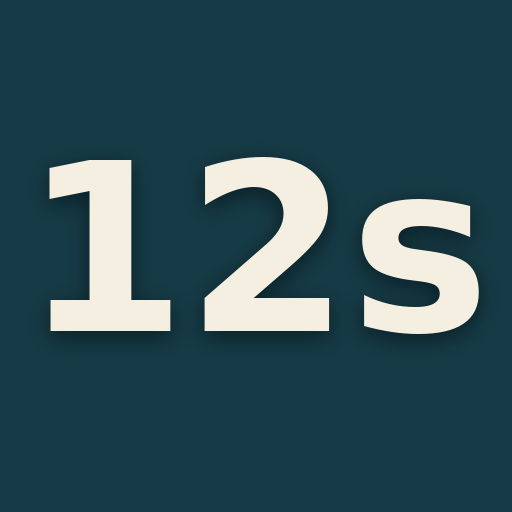
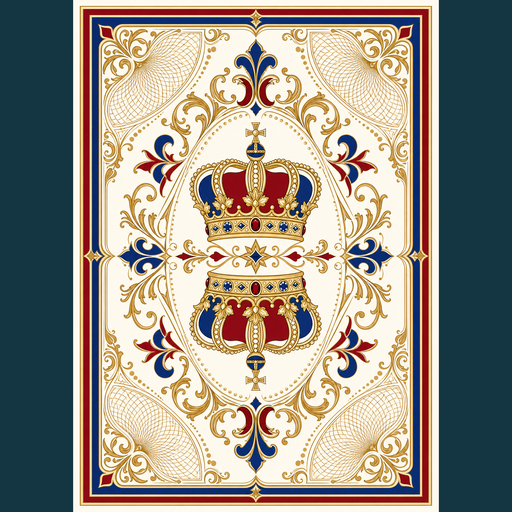
V3

diff --git a/game.html b/game.html
@@ -50,6 +50,31 @@
   .err { color: var(--danger); font-size: 13px; min-height: 18px; margin-top: 2px; }
   .or { text-align: center; color: var(--ink-soft); font-size: 12px; margin: 6px 0 14px; letter-spacing: .12em; }
 
+  .rules-toggle { display: flex; gap: 6px; margin-bottom: 12px; }
+  .rules-tab {
+    flex: 1; font-family: var(--font-body); font-weight: 600; font-size: 13px; color: var(--ink-soft);
+    background: rgba(255,255,255,.05); border: 1px solid rgba(255,255,255,.14);
+    padding: 9px 10px; border-radius: 10px; cursor: pointer; transition: background .12s ease, color .12s ease;
+  }
+  .rules-tab.active { background: var(--glow); color: #06231a; border-color: transparent; }
+  #house-rules-panel { margin-bottom: 4px; }
+  .stepper-row { display: flex; align-items: center; justify-content: space-between; margin-bottom: 10px; }
+  .stepper-label { font-size: 13px; color: var(--paper); }
+  .stepper { display: flex; align-items: center; gap: 10px; }
+  .stepper-btn {
+    width: 30px; height: 30px; padding: 0; font-size: 16px; font-weight: 700; line-height: 1;
+    border-radius: 8px; display: flex; align-items: center; justify-content: center;
+  }
+  .stepper-val { font-family: var(--font-display); font-weight: 700; font-size: 15px; min-width: 26px; text-align: center; }
+  .player-pick { display: flex; gap: 6px; }
+  .player-opt {
+    width: 34px; height: 30px; padding: 0; font-family: var(--font-display); font-weight: 700; font-size: 14px;
+    color: var(--ink-soft); border-radius: 8px;
+  }
+  .player-opt.active { background: var(--glow); color: #06231a; border-color: transparent; }
+  .deck-summary { color: var(--ink-soft); font-size: 12px; text-align: center; margin: 8px 0 4px; letter-spacing: .03em; }
+  .rules-note { color: var(--wild-a); font-size: 12px; text-align: center; margin: 4px 0 10px; line-height: 1.4; }
+
   button {
     font-family: var(--font-body); font-weight: 600; font-size: 14px; color: var(--paper);
     background: rgba(255,255,255,.08); border: 1px solid rgba(255,255,255,.16);
@@ -251,6 +276,41 @@
     <h2>New game</h2>
     <label class="f" for="create-name">Your name</label>
     <input class="f" id="create-name" placeholder="e.g. Troy" maxlength="14" />
+
+    <div class="rules-toggle">
+      <button type="button" class="rules-tab active" id="tab-standard">Standard</button>
+      <button type="button" class="rules-tab" id="tab-house">House Rules</button>
+    </div>
+
+    <div id="house-rules-panel" style="display:none;">
+      <div class="stepper-row">
+        <span class="stepper-label">Decks</span>
+        <div class="stepper">
+          <button type="button" class="stepper-btn" id="decks-minus">–</button>
+          <span class="stepper-val" id="decks-val">20</span>
+          <button type="button" class="stepper-btn" id="decks-plus">+</button>
+        </div>
+      </div>
+      <div class="stepper-row">
+        <span class="stepper-label">Extra wild cards</span>
+        <div class="stepper">
+          <button type="button" class="stepper-btn" id="wilds-minus">–</button>
+          <span class="stepper-val" id="wilds-val">0</span>
+          <button type="button" class="stepper-btn" id="wilds-plus">+</button>
+        </div>
+      </div>
+      <div class="stepper-row">
+        <span class="stepper-label">Players</span>
+        <div class="player-pick">
+          <button type="button" class="player-opt active" data-players="2">2</button>
+          <button type="button" class="player-opt" data-players="3">3</button>
+          <button type="button" class="player-opt" data-players="4">4</button>
+        </div>
+      </div>
+      <div class="deck-summary" id="deck-summary">20 decks · 280 cards · 40 wild</div>
+      <div class="rules-note" id="players-note" style="display:none;"></div>
+    </div>
+
     <button class="primary" id="btn-create">Create game</button>
   </div>
 
@@ -378,6 +438,14 @@ let unsubChat = null;
 let chatOpen = false;
 let chatMessages = [];   // [{id, uid, name, text, ts}]
 let lastReadTs = 0;      // ms timestamp of last message seen
+
+// House rules (create-game screen) — numDecks/extraWilds feed the engine's
+// deckConfig; playerCount is captured now but 3-4 player games aren't wired
+// up yet, so creation still produces a standard 2-player game for now.
+let houseRulesOn = false;
+let numDecks = 20, extraWilds = 0, playerCount = 2;
+const MIN_DECKS = 20; // house rules only ADD decks on top of the standard 20
+const MIN_EXTRA_WILDS = 0;
 
 /* ---------- chat ---------- */
 const CHAT_READ_KEY = () => '12s.chatread.' + code;
@@ -595,9 +663,13 @@ async function createGame() {
   const name = (document.getElementById('create-name').value || 'Player 1').trim().slice(0, 14);
   lobbyErr('');
   const newCode = makeCode();
-  const created = Net.netCreate(name, '—');
+  const deckConfig = houseRulesOn ? { numDecks, extraWilds } : { numDecks: 20, extraWilds: 0 };
+  const created = Net.netCreate(name, '—', deckConfig);
   created.pub.players[0].uid = user.uid;          // bind creator to slot 0
   created.pub.playerUids = [user.uid];            // for finding this game by account
+  // Player count beyond 2 is captured for when 3-4 player support lands, but
+  // creation still produces a standard 2-player game for now.
+  created.pub.targetPlayerCount = houseRulesOn ? playerCount : 2;
   try {
     // Write the game doc FIRST (binds creator uid), then the hand doc — the
     // security rules verify hand ownership against the committed game doc.
@@ -973,6 +1045,31 @@ function leave() {
   clearIdentity(); show('lobby'); lobbyErr('');
 }
 
+/* ---------- house rules (create-game screen) ---------- */
+function setHouseRules(on) {
+  houseRulesOn = on;
+  document.getElementById('tab-standard').classList.toggle('active', !on);
+  document.getElementById('tab-house').classList.toggle('active', on);
+  document.getElementById('house-rules-panel').style.display = on ? '' : 'none';
+}
+
+function updateDeckSummary() {
+  const wildCount = numDecks * 2 + extraWilds;
+  const totalCards = numDecks * 12 + wildCount;
+  document.getElementById('decks-val').textContent = numDecks;
+  document.getElementById('wilds-val').textContent = extraWilds;
+  document.getElementById('deck-summary').textContent =
+    numDecks + ' decks · ' + totalCards + ' cards · ' + wildCount + ' wild';
+
+  const note = document.getElementById('players-note');
+  if (playerCount > 2) {
+    note.style.display = '';
+    note.textContent = '3–4 player games are coming soon — this will create a 2-player game for now.';
+  } else {
+    note.style.display = 'none';
+  }
+}
+
 /* ---------- wiring ---------- */
 document.getElementById('btn-create').onclick = createGame;
 document.getElementById('btn-join').onclick = joinGame;
@@ -991,6 +1088,20 @@ document.getElementById('btn-chat-send').onclick = sendChatMessage;
 document.getElementById('chat-input').addEventListener('keydown', (e) => {
   if (e.key === 'Enter' && !e.shiftKey) { e.preventDefault(); sendChatMessage(); }
 });
+document.getElementById('tab-standard').onclick = () => setHouseRules(false);
+document.getElementById('tab-house').onclick = () => setHouseRules(true);
+document.getElementById('decks-minus').onclick = () => { numDecks = Math.max(MIN_DECKS, numDecks - 1); updateDeckSummary(); };
+document.getElementById('decks-plus').onclick = () => { numDecks += 1; updateDeckSummary(); };
+document.getElementById('wilds-minus').onclick = () => { extraWilds = Math.max(MIN_EXTRA_WILDS, extraWilds - 1); updateDeckSummary(); };
+document.getElementById('wilds-plus').onclick = () => { extraWilds += 1; updateDeckSummary(); };
+document.querySelectorAll('.player-opt').forEach((btn) => {
+  btn.onclick = () => {
+    playerCount = parseInt(btn.dataset.players, 10);
+    document.querySelectorAll('.player-opt').forEach((b) => b.classList.toggle('active', b === btn));
+    updateDeckSummary();
+  };
+});
+updateDeckSummary();
 
 // Auto-fill join code from a shared ?game= link.
 const urlCode = new URLSearchParams(location.search).get('game');

diff --git a/engine.js b/engine.js
@@ -5,18 +5,22 @@
  * Everything operates on a plain `state` object so the same engine can drive
  * a local hot-seat version AND a Firestore-synced version later.
  *
- * Deck:   20 sets of 1-12 (240 cards) + 20 wilds = 260 cards
+ * Deck:   each "deck" = 12 numbered cards (1-12) + 2 wilds = 14 cards.
+ *         Standard game = 20 decks = 240 numbered + 40 wilds = 280 cards.
+ *         House rules may add decks (+14 cards each, same 12:2 ratio) and/or
+ *         extra wilds on top of that baseline.
  * Win:    first player to empty their 30-card stock pile wins
  * ==========================================================================*/
 
 /* ----------------------------------------------------------------------------
  * Constants
  * --------------------------------------------------------------------------*/
-const SETS = 20;          // copies of each numbered value
-const MAX_VALUE = 12;     // numbered cards run 1..12
-const WILD_COUNT = 20;    // number of wild cards in the deck
-const STOCK_SIZE = 30;    // cards dealt to each player's stock pile
-const HAND_SIZE = 5;      // a full hand
+const SETS = 20;           // standard number of decks
+const MAX_VALUE = 12;      // numbered cards run 1..12
+const WILDS_PER_DECK = 2;  // each deck contributes this many wilds
+const WILD_COUNT = SETS * WILDS_PER_DECK; // standard wild count (40)
+const STOCK_SIZE = 30;     // cards dealt to each player's stock pile
+const HAND_SIZE = 5;       // a full hand
 const MAX_BUILDING_PILES = 4;
 const DISCARD_PILES_PER_PLAYER = 4;
 
@@ -35,15 +39,19 @@ function makeCard(value, isWild) {
   };
 }
 
-// Build the full 260-card deck (unshuffled).
-function buildDeck() {
+// Build a deck (unshuffled). numDecks defaults to the standard 20; extraWilds
+// is added on top of the 2-per-deck baseline (so standard = 20*2 = 40 wilds).
+function buildDeck(numDecks, extraWilds) {
+  const decks = numDecks != null ? numDecks : SETS;
+  const extra = extraWilds != null ? extraWilds : 0;
   const deck = [];
-  for (let s = 0; s < SETS; s++) {
+  for (let s = 0; s < decks; s++) {
     for (let v = 1; v <= MAX_VALUE; v++) {
       deck.push(makeCard(v, false));
     }
   }
-  for (let w = 0; w < WILD_COUNT; w++) {
+  const totalWilds = decks * WILDS_PER_DECK + extra;
+  for (let w = 0; w < totalWilds; w++) {
     deck.push(makeCard(null, true));
   }
   return deck;
@@ -68,13 +76,20 @@ function shuffle(array, rng) {
  * Create a fresh game state.
  * @param {Array<{playerId:string, displayName:string}>} playerInfos  2-4 players
  * @param {function} [rng]  optional deterministic RNG for tests
+ * @param {{numDecks:number, extraWilds:number}} [deckConfig]  house-rule deck size;
+ *        defaults to the standard 20 decks / 0 extra wilds (280-card deck, 40 wild)
  */
-function createGame(playerInfos, rng) {
+function createGame(playerInfos, rng, deckConfig) {
   if (!playerInfos || playerInfos.length < 2 || playerInfos.length > 4) {
     throw new Error('Game requires 2 to 4 players.');
   }
 
-  let deck = shuffle(buildDeck(), rng);
+  const numDecks = (deckConfig && deckConfig.numDecks != null) ? deckConfig.numDecks : SETS;
+  const extraWilds = (deckConfig && deckConfig.extraWilds != null) ? deckConfig.extraWilds : 0;
+  const wildCount = numDecks * WILDS_PER_DECK + extraWilds;
+
+  let deck = shuffle(buildDeck(numDecks, extraWilds), rng);
+  const totalCards = deck.length; // before dealing stocks off the top
 
   const players = playerInfos.map((info) => {
     const stockPile = deck.splice(0, STOCK_SIZE); // deal 30 off the top
@@ -96,6 +111,7 @@ function createGame(playerInfos, rng) {
     completedPilesBuffer: [],          // cards from finished 12-piles, set aside
     buildingPiles: [null, null, null, null], // 4 center slots; null = empty
     winnerPlayerId: null,
+    deckConfig: { numDecks, extraWilds, wildCount, totalCards }, // house rules used
   };
 
   // Active player draws up to 5 to begin.
@@ -327,7 +343,7 @@ function hasAnyLegalPlay(state) {
  * --------------------------------------------------------------------------*/
 const ENGINE = {
   // constants
-  SETS, MAX_VALUE, WILD_COUNT, STOCK_SIZE, HAND_SIZE,
+  SETS, MAX_VALUE, WILD_COUNT, WILDS_PER_DECK, STOCK_SIZE, HAND_SIZE,
   MAX_BUILDING_PILES, DISCARD_PILES_PER_PLAYER,
   // setup
   buildDeck, shuffle, createGame,

diff --git a/net.js b/net.js
@@ -17,12 +17,13 @@ function clone(x) { return JSON.parse(JSON.stringify(x)); }
 
 /* Build a brand-new networked game (deck dealt, creator dealt a hand).
  * Status starts 'waiting' until the second player joins.
+ * deckConfig (optional) is the house-rules deck size: { numDecks, extraWilds }.
  * Returns { pub, myHand } — myHand is the creator's (player 0) hand. */
-function netCreate(creatorName, opponentName) {
+function netCreate(creatorName, opponentName, deckConfig) {
   const state = Engine.createGame([
     { playerId: 'p0', displayName: creatorName },
     { playerId: 'p1', displayName: opponentName || '—' },
-  ]);
+  ], null, deckConfig);
   state.status = 'waiting';        // becomes 'active' when p1 joins
   state.drawnForTurn = state.turnNumber; // p0's opening draw is already done
   return { pub: serialize(state), myHand: clone(state.players[0].hand) };
@@ -43,6 +44,8 @@ function serialize(state) {
     winnerPlayerId: state.winnerPlayerId != null ? state.winnerPlayerId : null,
     // Preserve the auth binding so a full set() doesn't wipe it.
     playerUids: state.playerUids != null ? clone(state.playerUids) : null,
+    // House-rules deck size actually used (numDecks, extraWilds, wildCount, totalCards).
+    deckConfig: state.deckConfig != null ? clone(state.deckConfig) : null,
     players: state.players.map((p) => ({
       playerId: p.playerId,
       displayName: p.displayName,
@@ -70,6 +73,7 @@ function reconstruct(pub, myIndex, myCards) {
     buildingPiles: clone(pub.buildingPiles),
     winnerPlayerId: pub.winnerPlayerId,
     playerUids: pub.playerUids != null ? clone(pub.playerUids) : null,
+    deckConfig: pub.deckConfig != null ? clone(pub.deckConfig) : null,
     players: pub.players.map((p, i) => ({
       playerId: p.playerId,
       displayName: p.displayName,